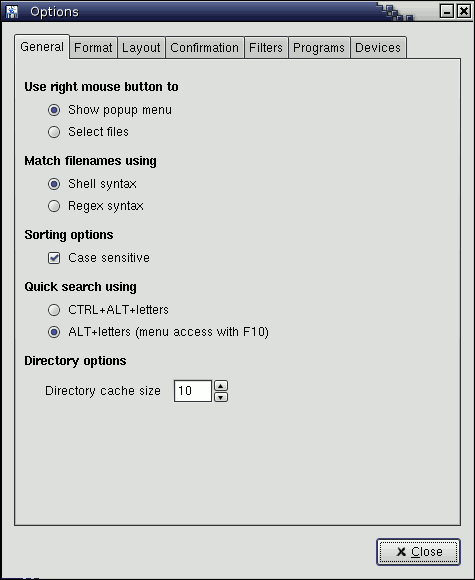
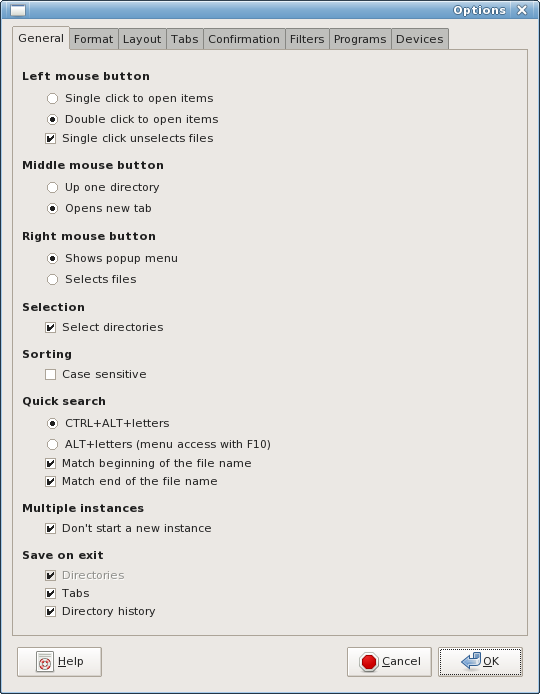
Updated options slideshow images to v1.4

diff --git a/opt_show.html b/opt_show.html
@@ -10,11 +10,12 @@
 <link href="style-a.css" rel="stylesheet" title="Default" type="text/css">
 <style type="text/css"><!--
 div img {margin-left:4%; border:0;}
-.karta {position:absolute; top:19em; margin-left:5%;}
-.opt {border:3px dotted #079;}
+.karta {position:absolute; top:17em; margin-left:2%;}
+#.opt {border:3px dotted #079;}
 #general {visibility:visible;}
 #form {visibility:hidden;}
 #layo {visibility:hidden;}
+#tabs {visibility:hidden;}
 #conf {visibility:hidden;}
 #filt {visibility:hidden;}
 #prog {visibility:hidden;}
@@ -45,25 +46,29 @@ div img {margin-left:4%; border:0;}
 
 <div id="cont" class="stil">
 <h2>Options slideshow</h2> 
-<p>This is an interactive slideshow of the GNOME Commander options (shots from v1.2.4), click on the option tabs like you would do in the program itself.</p>
+<p>This is an interactive slideshow of the GNOME Commander options
+  (shots from v1.4).<br> 
+  <i>Click on the option tabs</i> (or use TAB and ENTER) to switch between them.</p>
 <map name="kartan" id="kartan">  
-<area shape="rect" coords="15,38,73,64" href="javascript:titta('general');" title="General" alt="">  
-<area shape="rect" coords="74,38,121,64" href="javascript:titta('form');" title="Format" alt="">  
-<area shape="rect" coords="122,38,168,64" href="javascript:titta('layo');" title="Layout" alt="">  
-<area shape="rect" coords="169,38,247,64" href="javascript:titta('conf');" title="Confirmation" alt="">  
-<area shape="rect" coords="248,38,293,64" href="javascript:titta('filt');" title="Filters" alt="">  
-<area shape="rect" coords="294,38,353,64" href="javascript:titta('prog');" title="Programs" alt="">  
-<area shape="rect" coords="354,38,411,64" href="javascript:titta('devi');" title="Devices" alt="">  
+<area shape="rect" coords="12,28,70,50" href="javascript:titta('general');" tabindex="1" title="General" alt="General">  
+<area shape="rect" coords="71,28,118,50" href="javascript:titta('form');" tabindex="2" title="Format" alt="Format">  
+<area shape="rect" coords="119,28,166,50" href="javascript:titta('layo');" tabindex="3" title="Layout" alt="Layout">  
+<area shape="rect" coords="167,28,202,50" href="javascript:titta('tabs');" tabindex="4" title="Tabs" alt="Tabs">  
+<area shape="rect" coords="203,28,284,50" href="javascript:titta('conf');" tabindex="5" title="Confirmation" alt="Confirmation">  
+<area shape="rect" coords="285,28,329,50" href="javascript:titta('filt');" tabindex="6" title="Filters" alt="Filters">  
+<area shape="rect" coords="330,28,391,50" href="javascript:titta('prog');" tabindex="7" title="Programs" alt="Programs">  
+<area shape="rect" coords="392,28,448,50" href="javascript:titta('devi');" tabindex="8" title="Devices" alt="Devices">  
 </map>  
-<div id="general" class="karta"><img src="ss/opt_general.png" width="475" height="580" class="opt" alt=""></div>
-<div id="form" class="karta"><img src="ss/opt_format.png" width="475" height="580" class="opt" alt=""></div>
-<div id="layo" class="karta"><img src="ss/opt_layout.png" width="475" height="580" class="opt" alt=""></div>
-<div id="conf" class="karta"><img src="ss/opt_conf.png" width="475" height="580" class="opt" alt=""></div>
-<div id="filt" class="karta"><img src="ss/opt_filter.png" width="475" height="580" class="opt" alt=""></div>
-<div id="prog" class="karta"><img src="ss/opt_prog.png" width="475" height="580" class="opt" alt=""></div>
-<div id="devi" class="karta"><img src="ss/opt_dev.png" width="475" height="580" class="opt" alt=""></div>
-<div class="karta"><img src="img/dot.png" width="475" height="68" usemap="#kartan" alt=""></div>
-<img src="img/dot.png" width="2" height="700" alt="">
+<div id="general" class="karta"><img src="ss/opt_general.png" width="540" height="694" class="opt" alt=""></div>
+<div id="form" class="karta"><img src="ss/opt_format.png" width="540" height="694" class="opt" alt=""></div>
+<div id="layo" class="karta"><img src="ss/opt_layout.png" width="540" height="694" class="opt" alt=""></div>
+<div id="tabs" class="karta"><img src="ss/opt_tabs.png" width="540" height="694" class="opt" alt=""></div>
+<div id="conf" class="karta"><img src="ss/opt_conf.png" width="540" height="694" class="opt" alt=""></div>
+<div id="filt" class="karta"><img src="ss/opt_filter.png" width="540" height="694" class="opt" alt=""></div>
+<div id="prog" class="karta"><img src="ss/opt_prog.png" width="540" height="694" class="opt" alt=""></div>
+<div id="devi" class="karta"><img src="ss/opt_dev.png" width="540" height="694" class="opt" alt=""></div>
+<div class="karta"><img src="img/dot.png" width="540" height="68" usemap="#kartan" alt=""></div>
+<img src="img/dot.png" width="2" height="720" alt="">
 
 </div>
 <div>&nbsp;<br><a href="http://validator.w3.org/check/referer">

diff --git a/script.js b/script.js
@@ -13,6 +13,7 @@ function titta(lager){
 eval(dl + "('general')" + vi + bort);
 eval(dl + "('form')" + vi + bort);
 eval(dl + "('layo')" + vi + bort);
+eval(dl + "('tabs')" + vi + bort);
 eval(dl + "('conf')" + vi + bort);
 eval(dl + "('filt')" + vi + bort);
 eval(dl + "('prog')" + vi + bort);
